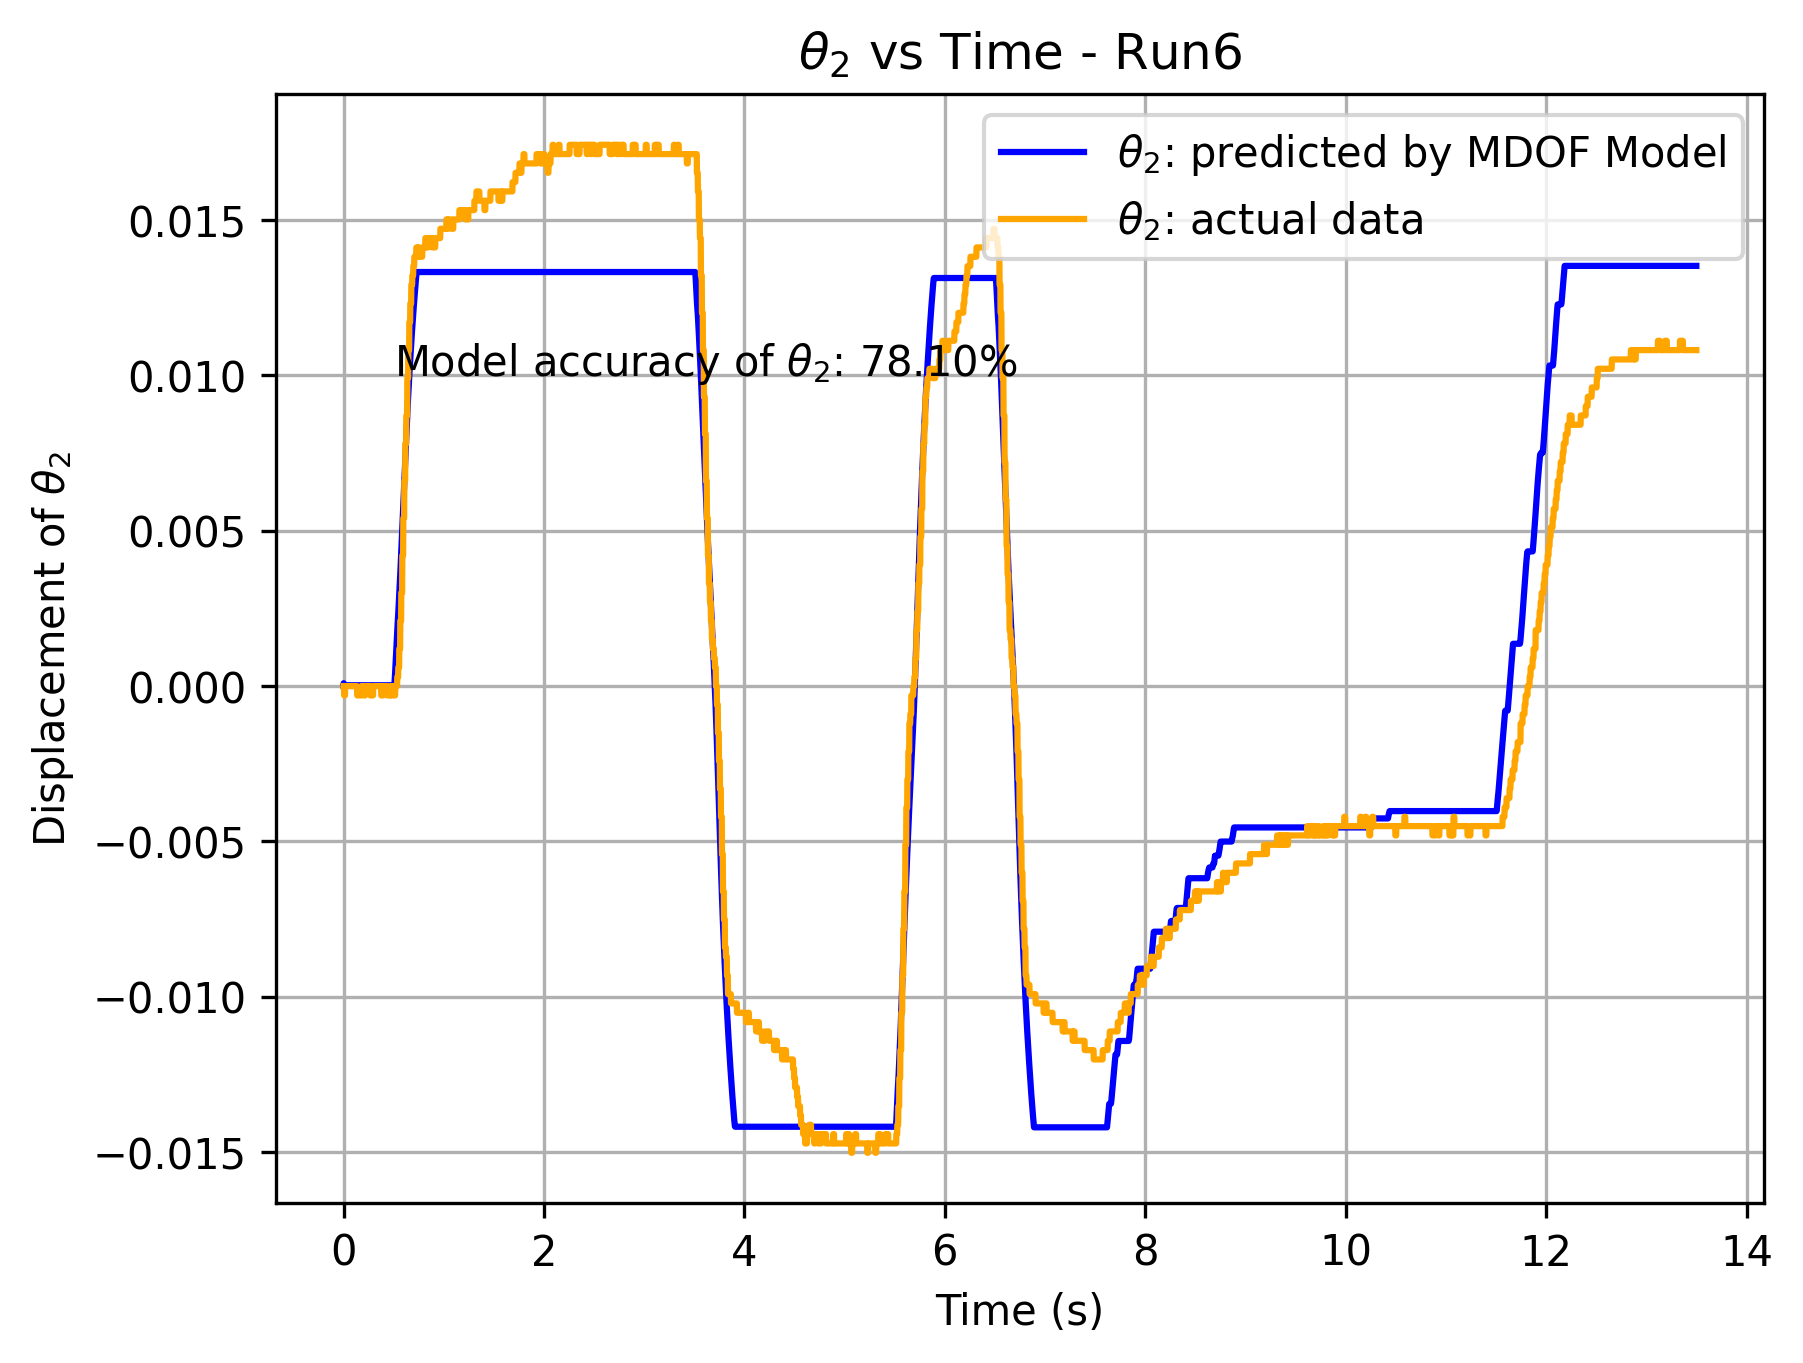
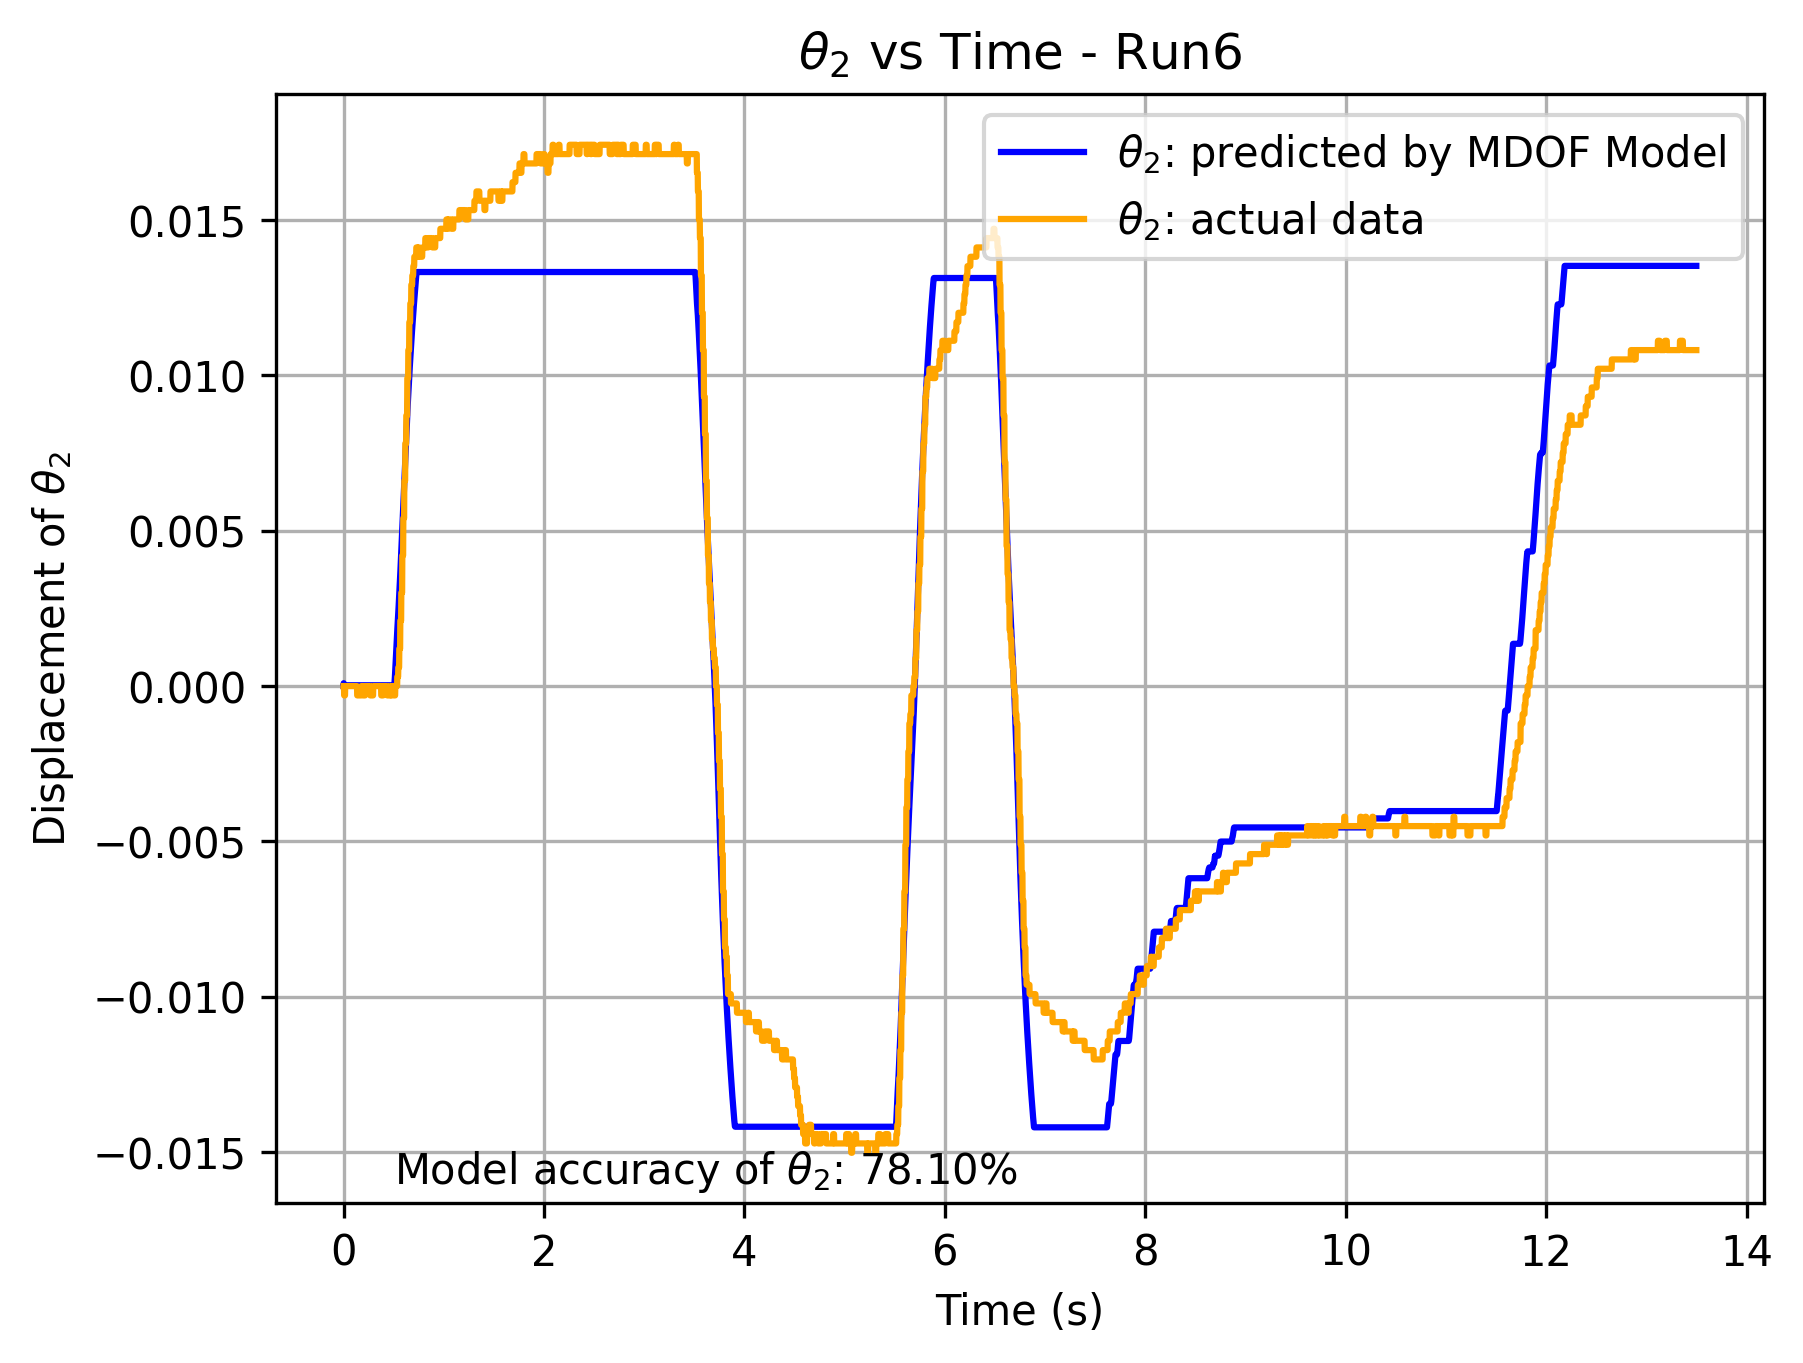
dadw

Changed region(s): [[0.2174, 0.832, 0.5591, 0.8628], [0.2174, 0.2465, 0.5591, 0.2773]]

diff --git a/Functions_for_sys2.py b/Functions_for_sys2.py
@@ -276,6 +276,25 @@ def model2(run, array, resolution, flatten, flatten_coeff, clutch, flip, divfact
         plt.grid()
 
     if extragraphs == True:
+        if run == 4:
+            x_pos = 7
+            y_pos = 0.017
+        elif run == 5:
+            x_pos = 7.8
+            y_pos = -0.025
+        elif run == 6:
+            x_pos = 7.8
+            y_pos = -0.017
+        elif run == 7:  
+            x_pos = 7
+            y_pos = 0.020
+        elif run == 12:
+            x_pos = 0.05
+            y_pos = -0.011
+        elif run == 13:
+            x_pos = 0.05
+            y_pos = -0.011
+        
         plt.plot(t_values, flip * Y_sol[:, 1], label=r'$\theta_{2}$' + ": predicted by MDOF Model", color="blue")
         plt.plot(t_values, Delta, label=r'$\theta_{2}$' + ": actual data", color="orange")
         plt.xlabel("Time (s)")
@@ -286,7 +305,7 @@ def model2(run, array, resolution, flatten, flatten_coeff, clutch, flip, divfact
             plt.title(r'$\theta_{2}$' + " vs Time - Run 5 (Worst Accuracy)")
         else:
             plt.title(r'$\theta_{2}$' + f" vs Time - Run{run}")
-        plt.text(x=0.5, y=-0.016, s="Model accuracy of " + r'$\theta_{2}$' + f": {accuracy2:.2f}%", fontsize=10, color="black")
+        plt.text(x=x_pos, y=y_pos, s="Model accuracy of " + r'$\theta_{2}$' + f": {accuracy2:.2f}%", fontsize=10, color="black")
         plt.legend()
         plt.grid()
         plt.savefig(f"my_plot_{run}.png", dpi=300, bbox_inches='tight')
